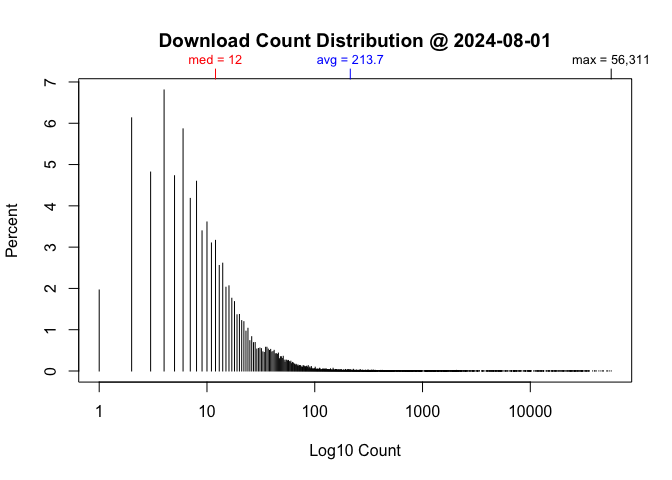
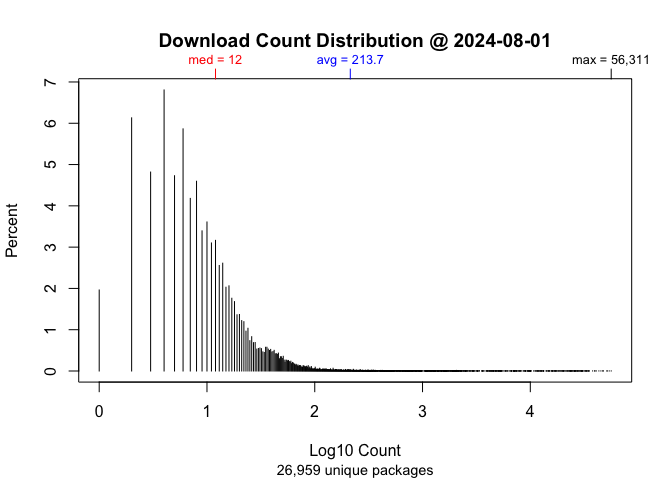
amend/update README

diff --git a/README.md b/README.md
@@ -1,7 +1,7 @@
 
 <!-- README.md is generated from README.Rmd. Please edit that file -->
 [![CRAN\_Status\_Badge](https://www.r-pkg.org/badges/version/packageRank)](https://cran.r-project.org/package=packageRank)
-[![GitHub\_Status\_Badge](https://img.shields.io/badge/GitHub-0.9.2.9035-red.svg)](https://github.com/lindbrook/packageRank/blob/master/NEWS.md)
+[![GitHub\_Status\_Badge](https://img.shields.io/badge/GitHub-0.9.2.9039-red.svg)](https://github.com/lindbrook/packageRank/blob/master/NEWS.md)
 ## packageRank: compute and visualize package download counts and percentile ranks
 
 [‘packageRank’](https://CRAN.R-project.org/package=packageRank) is an R
@@ -595,7 +595,7 @@ plot(cranDownloads(packages = c("cholera", "packageRank"), from = 2023),
 
 #### pro.mode
 
-Perhaps the biggest downside of using cranDownload(pro.mode = TRUE) is
+Perhaps the biggest downside of using cranDownloads(pro.mode = TRUE) is
 that you might draw mistaken inferences from plotting the data since it
 adds false zeroes to your data.
 
@@ -691,8 +691,8 @@ For example, we can compare Wednesday (“2020-03-04”) to Saturday
 
 ``` r
 packageRank(package = "cholera", date = "2020-03-04")
->         date packages downloads            rank percentile
-> 1 2020-03-04  cholera        38 5,788 of 18,038       67.9
+>         date package count            rank percentile
+> 1 2020-03-04 cholera    38 5,788 of 18,038       67.9
 ```
 
 On Wednesday, we can see that
@@ -702,8 +702,8 @@ downloaded, and earned a spot in the 68th percentile.
 
 ``` r
 packageRank(package = "cholera", date = "2020-03-07")
->         date packages downloads            rank percentile
-> 1 2020-03-07  cholera        29 3,189 of 15,950         80
+>         date package count            rank percentile
+> 1 2020-03-07 cholera    29 3,189 of 15,950         80
 ```
 
 On Saturday, we can see that
@@ -726,7 +726,8 @@ as an example:
 ``` r
 pkg.rank <- packageRank(packages = "cholera", date = "2020-03-04")
 
-downloads <- pkg.rank$freqtab
+downloads <- pkg.rank$cran.data$count
+names(downloads) <- pkg.rank$cran.data$package
 
 round(100 * mean(downloads < downloads["cholera"]), 1)
 > [1] 67.9
@@ -1070,8 +1071,8 @@ for 30 December 2020:
 packageRank(packages = "ergm")
 ```
 
-    >         date packages downloads          rank percentile
-    > 1 2020-12-30     ergm       292 878 of 20,077       95.6
+    >         date package count          rank percentile
+    > 1 2020-12-30    ergm   292 878 of 20,077       95.6
 
 If you had specified the date, you’d get an additional warning:
 
@@ -1079,8 +1080,8 @@ If you had specified the date, you’d get an additional warning:
 packageRank(packages = "ergm", date = "2021-01-01")
 ```
 
-    >         date packages downloads          rank percentile
-    > 1 2020-12-30     ergm       292 878 of 20,077       95.6
+    >         date package count          rank percentile
+    > 1 2020-12-30    ergm   292 878 of 20,077       95.6
 
     Warning message:
     2020-12-31 log arrives in appox. 19 hours at 02 Jan 04:00 AEDT. Using last available!
@@ -1126,29 +1127,29 @@ functions below:
 
 #### queryCount()
 
-To find the packages that had 100 downloads (the default is 1, least
-observable number of downloads):
+To find the packages that had 100 downloads (the default is 1, the
+lowest number of observable downloads):
 
 ``` r
 queryCount(100)
 ```
 
-    >           package count n.rank rank percentile
-    > 2129    analogsea   100   2129 2143   92.05089
-    > 2130 ComplexUpset   100   2130 2143   92.05089
-    > 2131     detrendr   100   2131 2143   92.05089
-    > 2132         drat   100   2132 2143   92.05089
-    > 2133      enrichR   100   2133 2143   92.05089
-    > 2134     exact2x2   100   2134 2143   92.05089
-    > 2135      fdapace   100   2135 2143   92.05089
-    > 2136         fdth   100   2136 2143   92.05089
-    > 2137       ggmcmc   100   2137 2143   92.05089
-    > 2138      jsTreeR   100   2138 2143   92.05089
-    > 2139       likert   100   2139 2143   92.05089
-    > 2140      praznik   100   2140 2143   92.05089
-    > 2141     rayimage   100   2141 2143   92.05089
-    > 2142       rlemon   100   2142 2143   92.05089
-    > 2143        worcs   100   2143 2143   92.05089
+    >         package count rank nominal.rank unique.packages percentile
+    > 1     analogsea   100 2143         2129           26959       92.1
+    > 2  ComplexUpset   100 2143         2130           26959       92.1
+    > 3      detrendr   100 2143         2131           26959       92.1
+    > 4          drat   100 2143         2132           26959       92.1
+    > 5       enrichR   100 2143         2133           26959       92.1
+    > 6      exact2x2   100 2143         2134           26959       92.1
+    > 7       fdapace   100 2143         2135           26959       92.1
+    > 8          fdth   100 2143         2136           26959       92.1
+    > 9        ggmcmc   100 2143         2137           26959       92.1
+    > 10      jsTreeR   100 2143         2138           26959       92.1
+    > 11       likert   100 2143         2139           26959       92.1
+    > 12      praznik   100 2143         2140           26959       92.1
+    > 13     rayimage   100 2143         2141           26959       92.1
+    > 14       rlemon   100 2143         2142           26959       92.1
+    > 15        worcs   100 2143         2143           26959       92.1
 
 #### queryRank()
 
@@ -1159,8 +1160,8 @@ To find the package that was ranked 20th in downloads (the default is
 queryRank(20)
 ```
 
-    >    package count n.rank rank percentile
-    > 20 stringr 33041     20   20   99.92581
+    >   package count rank nominal.rank unique.packages percentile
+    > 1 stringr 33041   20           20           26959       99.9
 
 #### queryPercentile()
 
@@ -1180,13 +1181,13 @@ guarantee a result.
 head(queryPercentile())
 ```
 
-    >        package count n.rank  rank percentile
-    > 12845 AATtools    12  12845 13697   49.19322
-    > 12846    abdiv    12  12846 13697   49.19322
-    > 12847 abglasso    12  12847 13697   49.19322
-    > 12848  ablasso    12  12848 13697   49.19322
-    > 12849   Ac3net    12  12849 13697   49.19322
-    > 12850      acp    12  12850 13697   49.19322
+    >    package count  rank nominal.rank unique.packages percentile
+    > 1 AATtools    12 13697        12845           26959       49.2
+    > 2    abdiv    12 13697        12846           26959       49.2
+    > 3 abglasso    12 13697        12847           26959       49.2
+    > 4  ablasso    12 13697        12848           26959       49.2
+    > 5   Ac3net    12 13697        12849           26959       49.2
+    > 6      acp    12 13697        12850           26959       49.2
 
 You can also set a range of percentile ranks using the ‘lo’ and/or ‘hi’
 arguments. If you get an error message, you may need to widen your
@@ -1197,14 +1198,14 @@ head(queryPercentile(lo = 95, hi = 96), 3)
 tail(queryPercentile(lo = 95, hi = 96), 3)
 ```
 
-    >      package count n.rank rank percentile
-    > 944 filehash   410    944  947   96.48726
-    > 945  NbClust   410    945  947   96.48726
-    > 946     sets   410    946  947   96.48726
-    >            package count n.rank rank percentile
-    > 1480  ParamHelpers   185   1480 1482   94.50276
-    > 1481 shinyvalidate   185   1481 1482   94.50276
-    > 1482         spocc   185   1482 1482   94.50276
+    >      package count rank nominal.rank unique.packages percentile
+    > 1    mapdata   420  931          931           26959       96.5
+    > 2 shinyalert   418  932          932           26959       96.5
+    > 3       klaR   416  935          933           26959       96.5
+    >                package count rank nominal.rank unique.packages percentile
+    > 536 PortfolioAnalytics   189 1466         1466           26959       94.6
+    > 537              binom   188 1468         1467           26959       94.6
+    > 538            prefmod   188 1468         1468           26959       94.6
 
 #### cranDistribution()
 

diff --git a/NEWS.md b/NEWS.md
@@ -1,3 +1,8 @@
+### packageRank 0.9.2.9039
+
+- amend/update README.
+
+
 ### packageRank 0.9.2.9038
 
 - clean output of packageRank(), cranDistribution() and query functions.
